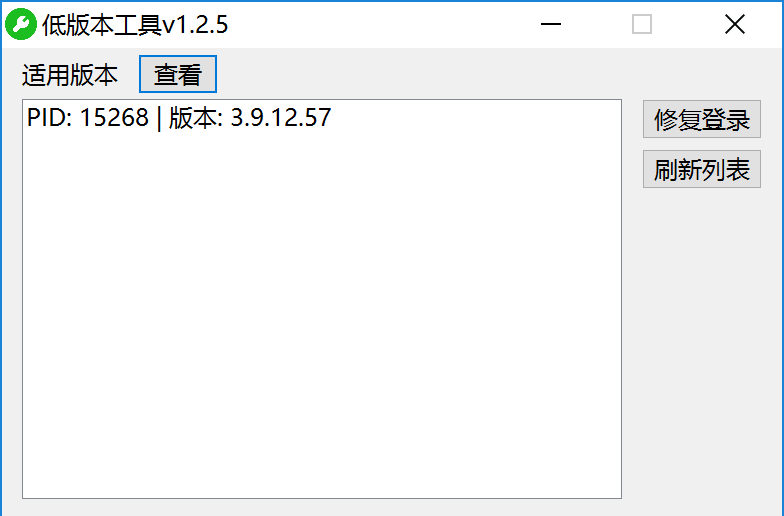
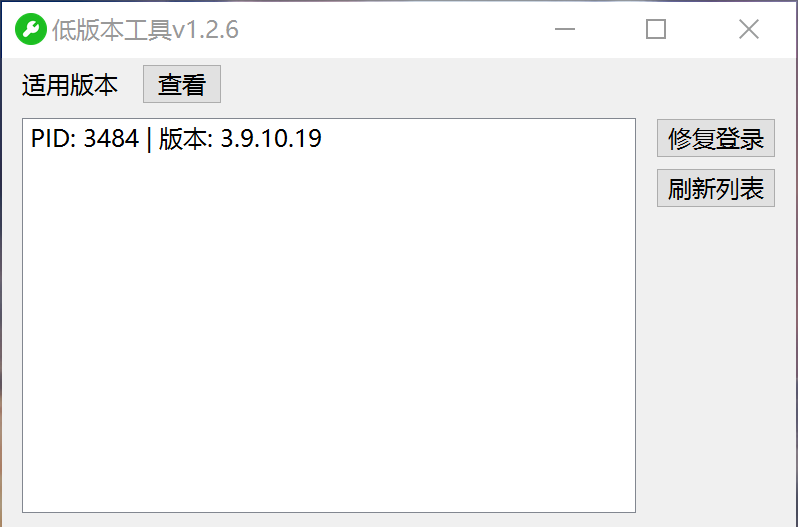
update

Changed region(s): [[0.0, 0.0, 1.0, 1.0]]

diff --git a/readme.md b/readme.md
@@ -1,7 +1,7 @@
 # 微信过低版本工具 <img src="./image/icon.ico" width="30" height="30">
 
 ### 下载
-[微信过低版本工具](https://github.com/sqcddzx/WechatVersionTool/releases/tag/WechatVersionTool)
+[过低版本工具](https://github.com/sqcddzx/WechatVersionTool/releases/tag/WechatVersionTool)
 
 ### 界面
 
@@ -9,12 +9,17 @@
   <img src="image/example.png" alt="photo" width="500">
 </a>
 
-
 ### 说明
-1. 工具会被杀毒软件误判，请关闭杀毒软件或从隔离从还原工具  
-2. 打开微信以及本工具  
-3. 选择进程  
-4. 点击修复版本，弹出修改成功即可  
+工具可能会被杀毒软件误判，请关闭杀毒软件或从隔离中还原工具
+
+方式一：  
+  1. 打开微信以及本工具  
+  2. 选择进程  
+  3. 点击修复版本，弹出修改成功即可  
+
+方式二：
+  1. 打开微信
+  2. CMD调用 ```低版本工具.exe <PID>```
 
 ### 支持
 如果工具对您有帮助，请给个⭐或请我喝杯咖啡吧~   
